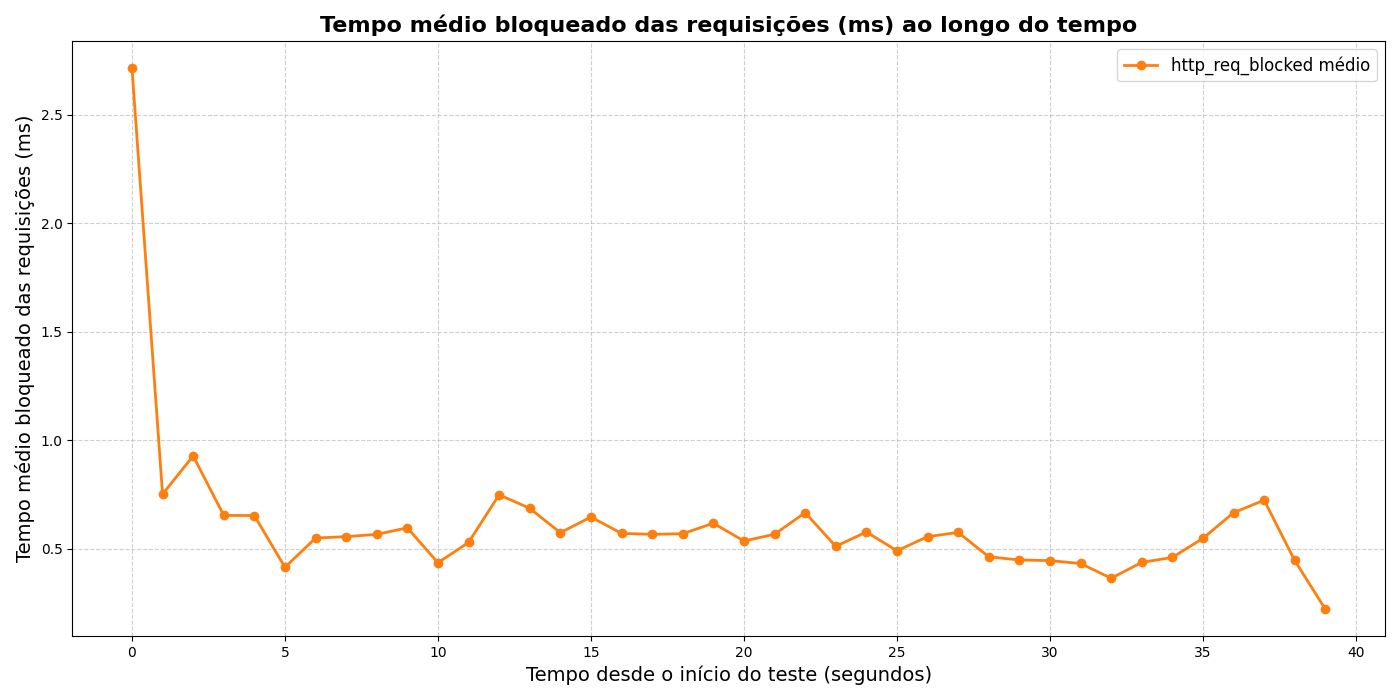
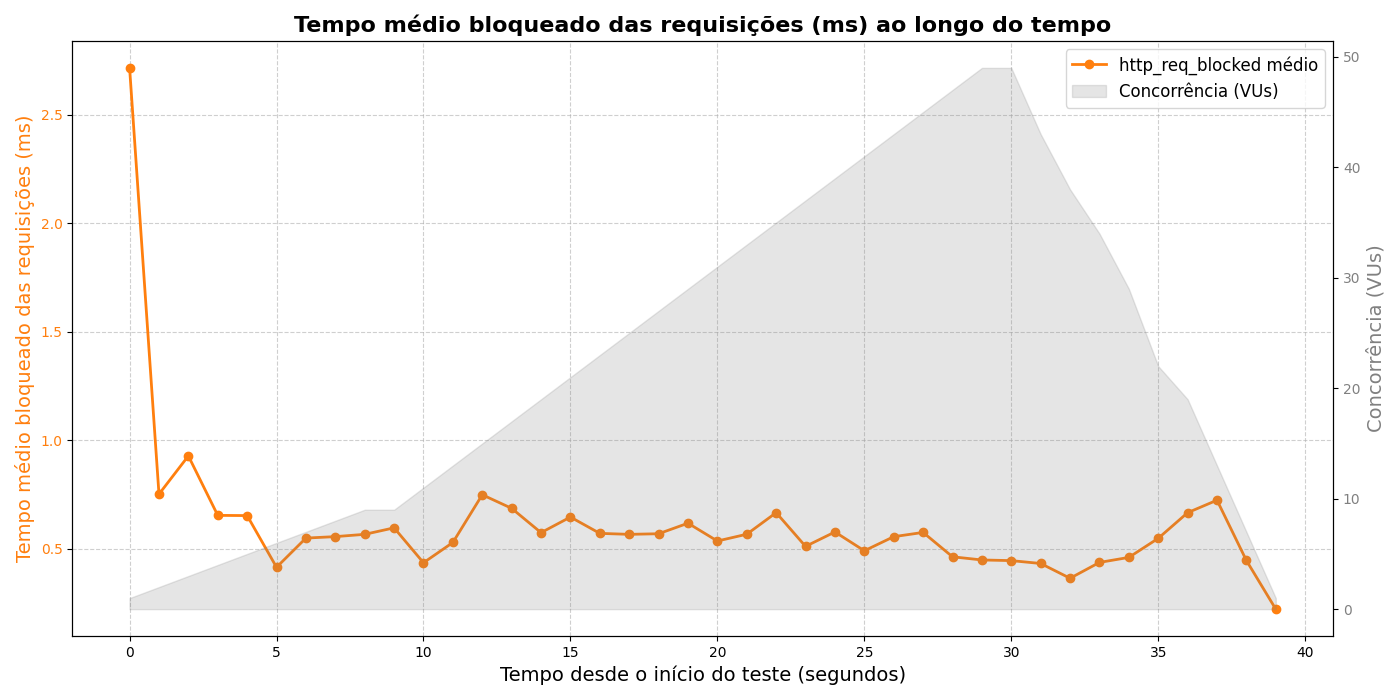
Add files via upload

diff --git a/Gráfico_Exemplo/plot.html b/Gráfico_Exemplo/plot.html
@@ -1,70 +1,152 @@
 <!DOCTYPE html>
 <html lang="pt-BR">
 <head>
-<meta charset="UTF-8" />
-<title>Relatório k6 - Resumo</title>
-<style>
-  body {
-    font-family: Arial, sans-serif;
-    margin: 2rem;
-    background: #f4f4f9;
-    color: #333;
-  }
-  h1 {
-    color: #2c3e50;
-    border-bottom: 3px solid #2980b9;
-    padding-bottom: 0.3rem;
-  }
-  section {
-    margin-top: 2rem;
-  }
-  pre {
-    background: #222;
-    color: #eee;
-    padding: 1rem;
-    border-radius: 5px;
-    overflow-x: auto;
-  }
-  a {
-    color: #2980b9;
-    text-decoration: none;
-    font-weight: bold;
-  }
-  a:hover {
-    text-decoration: underline;
-  }
-</style>
+  <meta charset="UTF-8">
+  <meta name="viewport" content="width=device-width, initial-scale=1.0">
+  <meta name="description" content="Relatório resumido dos testes de carga realizados com k6, incluindo estatísticas e gráficos.">
+  <title>Relatório k6 - Resumo</title>
+  <style>
+    :root {
+      --primary-color: #2c3e50;
+      --accent-color: #2980b9;
+      --background-color: #f4f4f9;
+      --text-color: #333;
+      --code-bg: #222;
+      --code-text: #eee;
+    }
+
+    body {
+      font-family: Arial, sans-serif;
+      margin: 2rem;
+      background: var(--background-color);
+      color: var(--text-color);
+      line-height: 1.6;
+    }
+
+    h1, h2 {
+      color: var(--primary-color);
+    }
+
+    h1 {
+      border-bottom: 3px solid var(--accent-color);
+      padding-bottom: 0.3rem;
+      font-size: 2rem;
+    }
+
+    h2 {
+      font-size: 1.5rem;
+      margin-top: 2rem;
+    }
+
+    section {
+      margin-top: 2rem;
+      max-width: 800px;
+    }
+
+    pre {
+      background: var(--code-bg);
+      color: var(--code-text);
+      padding: 1rem;
+      border-radius: 5px;
+      overflow-x: auto;
+      font-size: 0.9rem;
+    }
+
+    a {
+      color: var(--accent-color);
+      text-decoration: none;
+      font-weight: bold;
+      transition: color 0.2s;
+    }
+
+    a:hover, a:focus {
+      text-decoration: underline;
+      color: #1c6391;
+      outline: none;
+    }
+
+    a:focus {
+      box-shadow: 0 0 0 3px rgba(41, 128, 185, 0.3);
+    }
+
+    ul {
+      list-style-type: disc;
+      padding-left: 1.5rem;
+    }
+
+    li {
+      margin-bottom: 0.5rem;
+    }
+
+    /* Acessibilidade: garantir contraste e legibilidade */
+    @media (prefers-contrast: high) {
+      body {
+        background: #fff;
+        color: #000;
+      }
+      a {
+        color: #0000EE;
+      }
+    }
+
+    /* Acessibilidade: suporte para leitores de tela */
+    .sr-only {
+      position: absolute;
+      width: 1px;
+      height: 1px;
+      padding: 0;
+      margin: -1px;
+      overflow: hidden;
+      clip: rect(0, 0, 0, 0);
+      border: 0;
+    }
+  </style>
 </head>
 <body>
+  <header>
+    <h1 id="main-title">Relatório Resumo do Teste k6</h1>
+  </header>
 
-<h1>Relatório Resumo do Teste k6</h1>
+  <main>
+    <section aria-labelledby="como-usar">
+      <h2 id="como-usar">Como usar</h2>
+      <p>Rode o script Python <code>plot_k6.py</code> para gerar gráficos e imprimir estatísticas no terminal.</p>
+      <p>Os gráficos salvos como <code>http_req_duration.png</code>, <code>http_req_blocked.png</code> e <code>http_reqs.png</code> ficarão na mesma pasta.</p>
+      <p>Esta página fornece um resumo das informações e links para os arquivos gerados.</p>
+    </section>
 
-<section>
-  <h2>Como usar</h2>
-  <p>Rode o script Python para gerar gráficos e imprimir estatísticas no terminal.</p>
-  <p>Os gráficos salvos como <code>http_req_duration.png</code> e <code>http_req_blocked.png</code> ficarão na mesma pasta.</p>
-  <p>Você pode abrir este arquivo para visualizar informações básicas e acessar o CSV.</p>
-</section>
+    <section aria-labelledby="arquivo-csv">
+      <h2 id="arquivo-csv">Arquivo CSV Original</h2>
+      <p><a href="resultado.csv" download aria-label="Baixar o arquivo CSV com os resultados dos testes k6">Baixar resultado.csv</a></p>
+    </section>
 
-<section>
-  <h2>Arquivo CSV Original</h2>
-  <p><a href="resultado.csv" download>Baixar resultado.csv</a></p>
-</section>
+    <section aria-labelledby="imagens-geradas">
+      <h2 id="imagens-geradas">Imagens geradas</h2>
+      <ul>
+        <li><a href="http_req_duration.png" target="_blank" aria-label="Visualizar gráfico da duração média das requisições">Duração média das requisições</a></li>
+        <li><a href="http_req_blocked.png" target="_blank" aria-label="Visualizar gráfico do tempo médio bloqueado das requisições">Tempo médio bloqueado das requisições</a></li>
+        <li><a href="http_reqs.png" target="_blank" aria-label="Visualizar gráfico da vazão de requisições por segundo">Vazão (requisições por segundo)</a></li>
+      </ul>
+    </section>
 
-<section>
-  <h2>Imagens geradas</h2>
-  <ul>
-    <li><a href="http_req_duration.png" target="_blank">Duração média das requisições</a></li>
-    <li><a href="http_req_blocked.png" target="_blank">Tempo médio bloqueado das requisições</a></li>
-  </ul>
-</section>
+    <section aria-labelledby="resumo-terminal">
+      <h2 id="resumo-terminal">Resumo no Terminal</h2>
+      <pre aria-label="Exemplo de saída de estatísticas no terminal">
+# Rode o script Python plot_k6.py para ver as estatísticas resumidas
+# Exemplo de saída:
+# Resumo da métrica 'http_req_duration':
+#   Média: 105.62 ms
+#   Mediana: 105.47 ms
+#   Min: 101.93 ms
+#   Máx: 118.12 ms
+#   P95: 108.36 ms
+#   P99: 110.93 ms
+      </pre>
+    </section>
+  </main>
 
-<section>
-  <h2>Resumo no Terminal</h2>
-  <pre>
-# Rode o script Python para ver aqui as estatísticas resumidas
-  </pre>
-</section>
-
+  <footer>
+    <p>Gerado automaticamente pelo script <code>plot_k6.py</code>. Última atualização: 10 de junho de 2025.</p>
+  </footer>
 </body>
 </html>

diff --git a/Gráfico_Exemplo/plot_k6.py b/Gráfico_Exemplo/plot_k6.py
@@ -1,7 +1,8 @@
 """
 Script para analisar CSV gerado pelo k6:
 - Mostra no terminal resumo estatístico de algumas métricas, incluindo número médio de requisições (sem gráfico)
-- Gera gráficos da duração e tempo bloqueado das requisições ao longo do tempo, com estilo clean e legenda
+- Gera gráficos da duração, tempo bloqueado e vazão das requisições ao longo do tempo, com estilo clean e legenda
+- Inclui concorrência (VUs) como área sombreada com escala no eixo direito
 - Tempo é mostrado em segundos desde o início do teste para facilitar análise
 
 Para usar, rode o script na pasta com resultado.csv.
@@ -17,44 +18,80 @@ def print_resumo_metric(df, metric_name):
         print(f"\nMétrica '{metric_name}' não encontrada no dataset.")
         return None
     
-    durations = df_metric['metric_value']
+    values = df_metric['metric_value']
     
-    # definir unidade conforme métrica
+    # Definir unidade conforme métrica
     if metric_name == 'http_reqs':
         unidade = "reqs (contagem)"
     else:
         unidade = "ms"
         
     resumo = {
-        'Média': durations.mean(),
-        'Mediana': durations.median(),
-        'Min': durations.min(),
-        'Máx': durations.max(),
-        'P95': np.percentile(durations, 95),
-        'P99': np.percentile(durations, 99)
+        'Média': values.mean(),
+        'Mediana': values.median(),
+        'Min': values.min(),
+        'Máx': values.max(),
+        'P95': np.percentile(values, 95),
+        'P99': np.percentile(values, 99)
     }
     print(f"\nResumo da métrica '{metric_name}':")
     for k, v in resumo.items():
         print(f"  {k}: {v:.2f} {unidade}")
     return resumo
 
-def plot_metric_over_time(df, metric_name, ylabel, color='#1f77b4'):
+def plot_metric_over_time(df, metric_name, ylabel, color='#1f77b4', throughput=False):
     df_metric = df[df['metric_name'] == metric_name].copy()
     if df_metric.empty:
         print(f"\nMétrica '{metric_name}' não encontrada no dataset. Não será gerado gráfico.")
         return
     
     df_metric['relative_time'] = df_metric['timestamp'] - df_metric['timestamp'].min()
-    df_grouped = df_metric.groupby(df_metric['relative_time'].astype(int)).metric_value.mean().reset_index()
+    
+    if throughput:
+        # Calcular vazão (requisições por segundo)
+        df_metric['time_bin'] = df_metric['relative_time'].astype(int)
+        df_grouped = df_metric.groupby('time_bin')['metric_value'].sum().reset_index()
+        df_grouped = df_grouped.rename(columns={'time_bin': 'relative_time'})  # Renomear para consistência
+    else:
+        df_grouped = df_metric.groupby(df_metric['relative_time'].astype(int))['metric_value'].mean().reset_index()
 
-    plt.figure(figsize=(14,7))
-    plt.plot(df_grouped['relative_time'], df_grouped['metric_value'],
-             marker='o', linestyle='-', color=color, linewidth=2, label=f'{metric_name} médio')
+    # Preparar dados de concorrência (vus)
+    df_vus = df[df['metric_name'] == 'vus'].copy()
+    if df_vus.empty:
+        print("Métrica 'vus' não encontrada. Concorrência não será plotada.")
+        vus_available = False
+    else:
+        df_vus['relative_time'] = df_vus['timestamp'] - df_vus['timestamp'].min()
+        df_vus_grouped = df_vus.groupby(df_vus['relative_time'].astype(int))['metric_value'].mean().reset_index()
+        vus_available = True
+
+    # Criar gráfico
+    fig, ax1 = plt.subplots(figsize=(14,7))
+    
+    # Plotar métrica principal
+    ax1.plot(df_grouped['relative_time'], df_grouped['metric_value'],
+             marker='o', linestyle='-', color=color, linewidth=2, label=f'{metric_name} {"médio" if not throughput else "total"}')
+    ax1.set_xlabel("Tempo desde o início do teste (segundos)", fontsize=14)
+    ax1.set_ylabel(ylabel, fontsize=14, color=color)
+    ax1.tick_params(axis='y', labelcolor=color)
+    ax1.grid(True, linestyle='--', alpha=0.6)
+
+    # Plotar concorrência (VUs) no eixo direito, se disponível
+    if vus_available:
+        ax2 = ax1.twinx()
+        ax2.fill_between(df_vus_grouped['relative_time'], df_vus_grouped['metric_value'],
+                         color='gray', alpha=0.2, label='Concorrência (VUs)')
+        ax2.set_ylabel('Concorrência (VUs)', fontsize=14, color='gray')
+        ax2.tick_params(axis='y', labelcolor='gray')
+
+        # Combinar legendas
+        lines1, labels1 = ax1.get_legend_handles_labels()
+        lines2, labels2 = ax2.get_legend_handles_labels()
+        ax1.legend(lines1 + lines2, labels1 + labels2, fontsize=12)
+    else:
+        ax1.legend(fontsize=12)
+
     plt.title(f"{ylabel} ao longo do tempo", fontsize=16, fontweight='bold')
-    plt.xlabel("Tempo desde o início do teste (segundos)", fontsize=14)
-    plt.ylabel(ylabel, fontsize=14)
-    plt.grid(True, linestyle='--', alpha=0.6)
-    plt.legend(fontsize=12)
     plt.tight_layout()
     plt.savefig(f"{metric_name}.png")
     plt.show()
@@ -67,6 +104,9 @@ def main():
 
     print_resumo_metric(df, 'http_req_blocked')
     plot_metric_over_time(df, 'http_req_blocked', 'Tempo médio bloqueado das requisições (ms)', '#ff7f0e')
+
+    print_resumo_metric(df, 'http_reqs')
+    plot_metric_over_time(df, 'http_reqs', 'Vazão (requisições por segundo)', '#2ca02c', throughput=True)
 
 if __name__ == "__main__":
     main()
